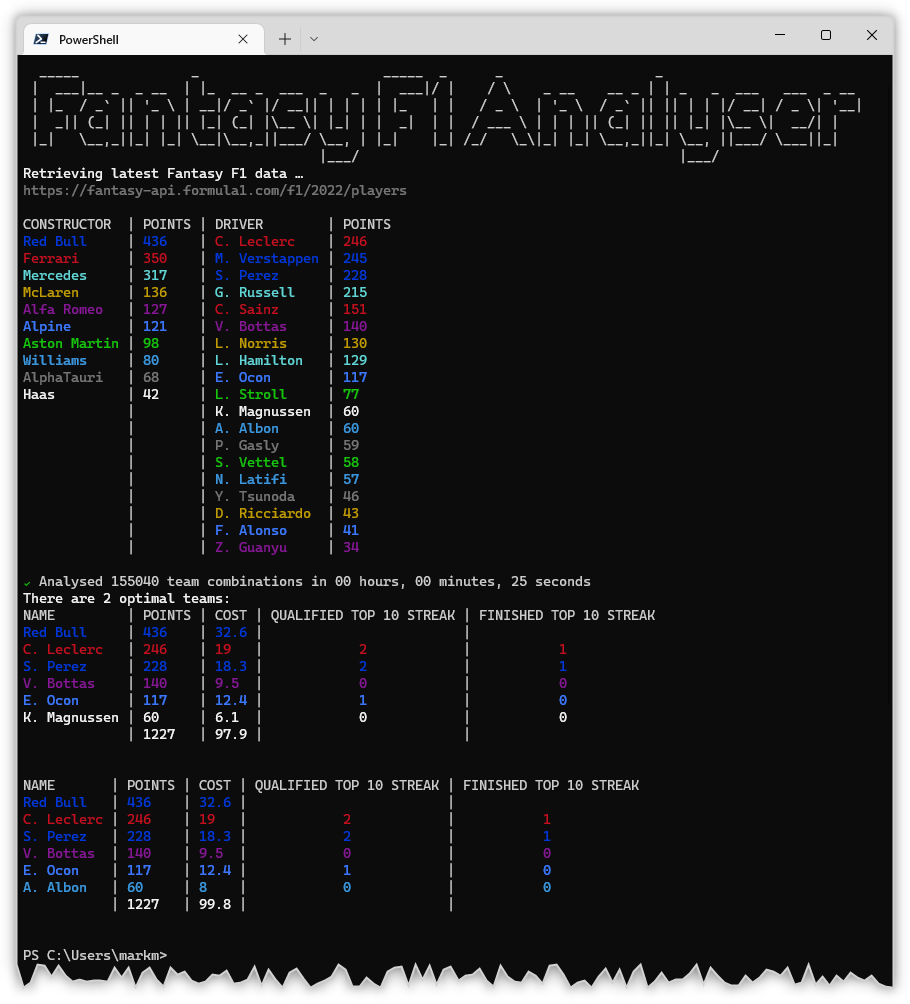
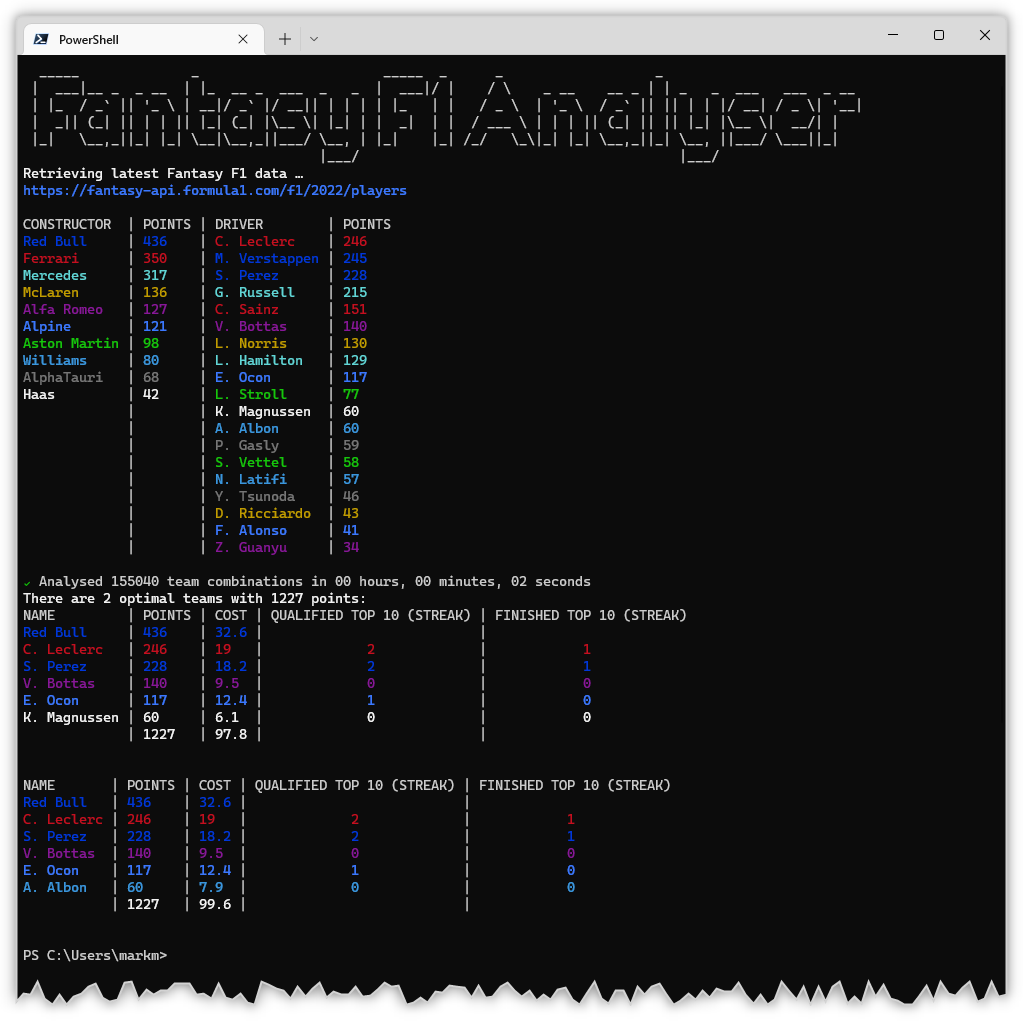
v1.2.0 - Added common points tally + screenshots

diff --git a/analysis.js b/analysis.js
@@ -183,7 +183,7 @@ function displayStatistics() {
 
 function displayBestTeam() {
    if (bestTeam.teams.length > 1) {
-      console.log(chalk.whiteBright(`There are ${bestTeam.teams.length} optimal teams:`));
+      console.log(chalk.whiteBright(`There are ${bestTeam.teams.length} optimal teams with ${bestTeam.points} points:`));
    }
 
    bestTeam.teams.forEach(team => {

diff --git a/CHANGELOG.md b/CHANGELOG.md
@@ -1,5 +1,15 @@
 # Changelog
 
+## v1.2.0 - 5<sup>th</sup> June 2022
+
+* Added the common points tally when there's two or more optimal teams.
+
+![common point tally](./images/commonPointsTally.png)
+
+* Updated screenshots to reflect latest output.
+
+---
+
 ## v1.1.0 - 4<sup>th</sup> June 2022
 
 * Improved Fantasy F1 API error handling.
